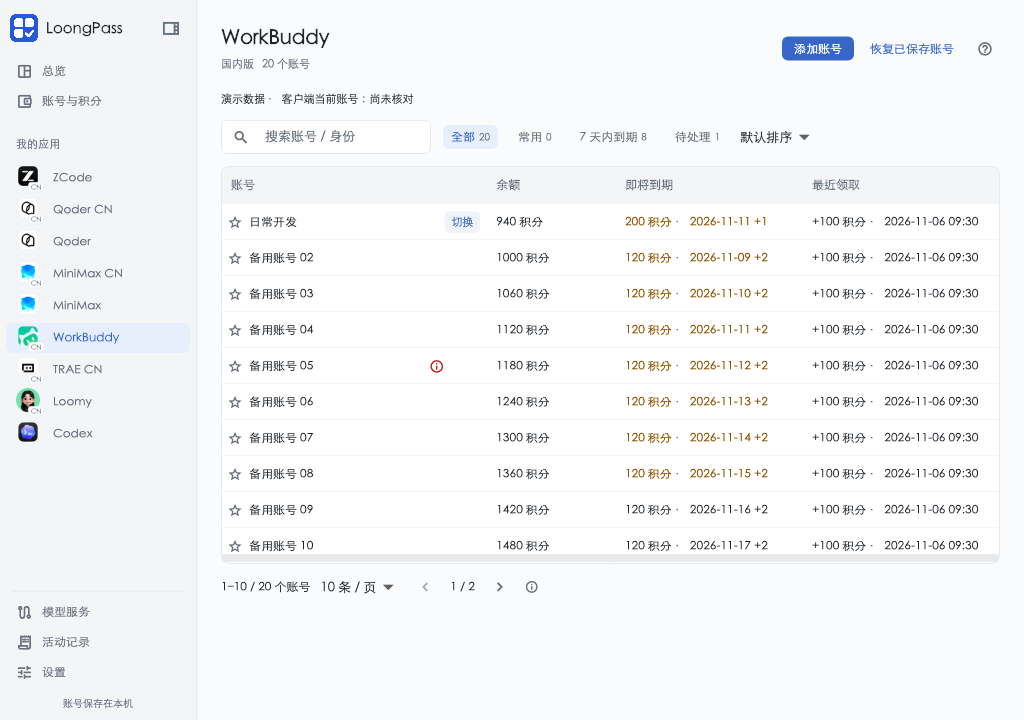
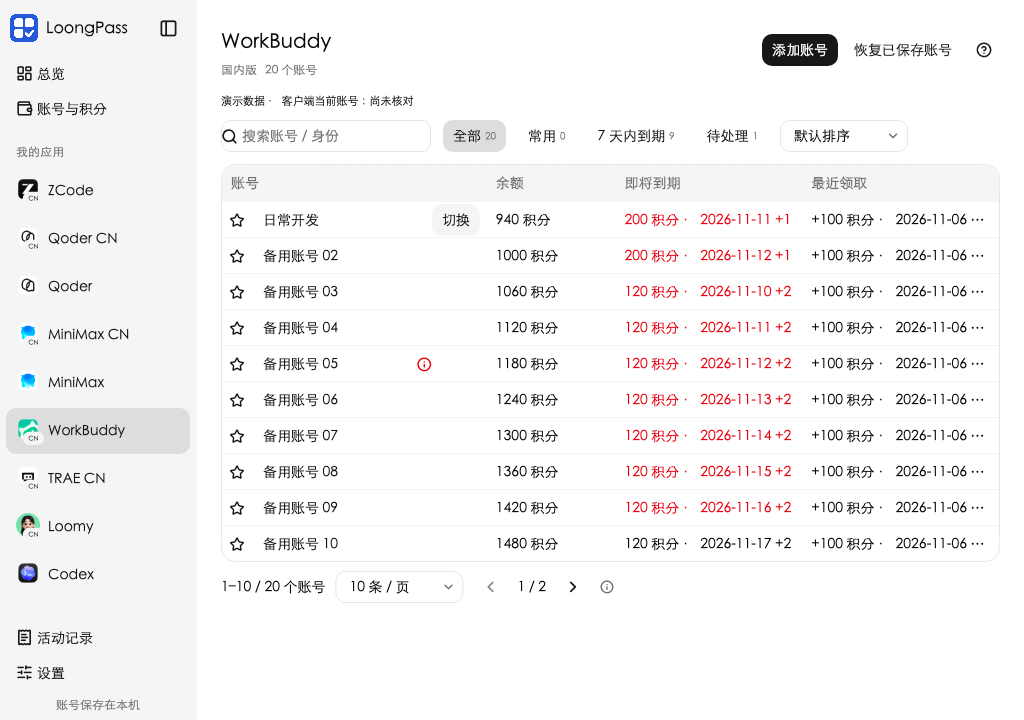
docs: record Forui desktop verification and preview

diff --git a/docs/verification/2026-11-09-forui-desktop.md b/docs/verification/2026-11-09-forui-desktop.md
@@ -1,0 +1,22 @@
+# Forui 桌面界面验收
+
+## 实现与工具链
+
+桌面自研界面采用 Forui 0.27.7 的官方 Neutral Desktop 浅色、深色主题，直接使用其按钮、表单、选择器、开关、卡片、提示、对话框与设计变量。主题由应用根节点统一提供。账号表格保留原有搜索、筛选、排序、分页、收藏和行距行为，读取同一套主题。
+
+Flutter 固定为 3.47.9，Dart 约束为 `>=3.13.7 <4.0.0`。本次本机构建使用 Flutter 3.47.9 stable 与配套 Dart 3.13.7。`material_ui` 提供 Forui 官方桥接所需的应用宿主及可选中文本基础能力。原生插件、运行时及桥接的来源与版本继续由 `runtime/upstream.lock.json` 和第三方声明记录。
+
+## 自动检查与构建
+
+- `python3 tool/check.py` 完整通过，包含 Dart 静态分析、252 项 Flutter 测试、286 项原生插件测试，以及存储、迁移、授权、领取事务和 Codex 原生检查。
+- 回归覆盖主题切换、中文本地化、重复标签的选择项、进行中及禁用状态、收藏状态、到期提示颜色、悬停与键盘焦点、2 倍文字及窄窗口。
+- `tool/render_compact_accounts_test.dart` 的 6 组检查通过，生成 44 张合成数据预览，覆盖 480、800、1024 宽度及浅色、深色、折叠导航和弹窗。测试渲染器使用 macOS 中文字体替换测试字体，原生应用的 Inter 与系统中文回退另经运行界面检查。
+- `python3 tool/build_macos_release.py` 完成 macOS Release 构建，应用及 Flutter 框架均含 arm64 与 x86_64。严格代码签名检查通过。
+
+两次独立运行曾在既有 Codex 合成关闭用例中遇到 `Closing handshake missing`，完整检查随后复跑通过。该用例及对应原生实现相对本次合入基线没有修改，失败原因仍待单独定位。
+
+## 本机运行检查
+
+Apple Silicon macOS 启动了从提交 `8734f58692a23c7f36856d32c20e803fc4724f39` 构建的候选应用。已有 13 个账号完成载入，检查了总览、账号表格、到期明细、WorkBuddy 与 Qoder CN 邀请设置、添加账号表单、模型服务页、主题选择及展开和折叠导航。中文与图标可读，对话框可关闭，内容区域可滚动，深色主题应用于邀请表单与模型服务。验收后主题恢复为跟随系统，侧栏恢复展开。
+
+此处确认界面运行及既有数据加载。新的官方授权、签到、客户端切换、模型调用、Intel 真机和 Windows 真机链路分别沿用对应验收记录，仍需在相应场景独立验收。候选构建另存，公开版本发布单独执行。
